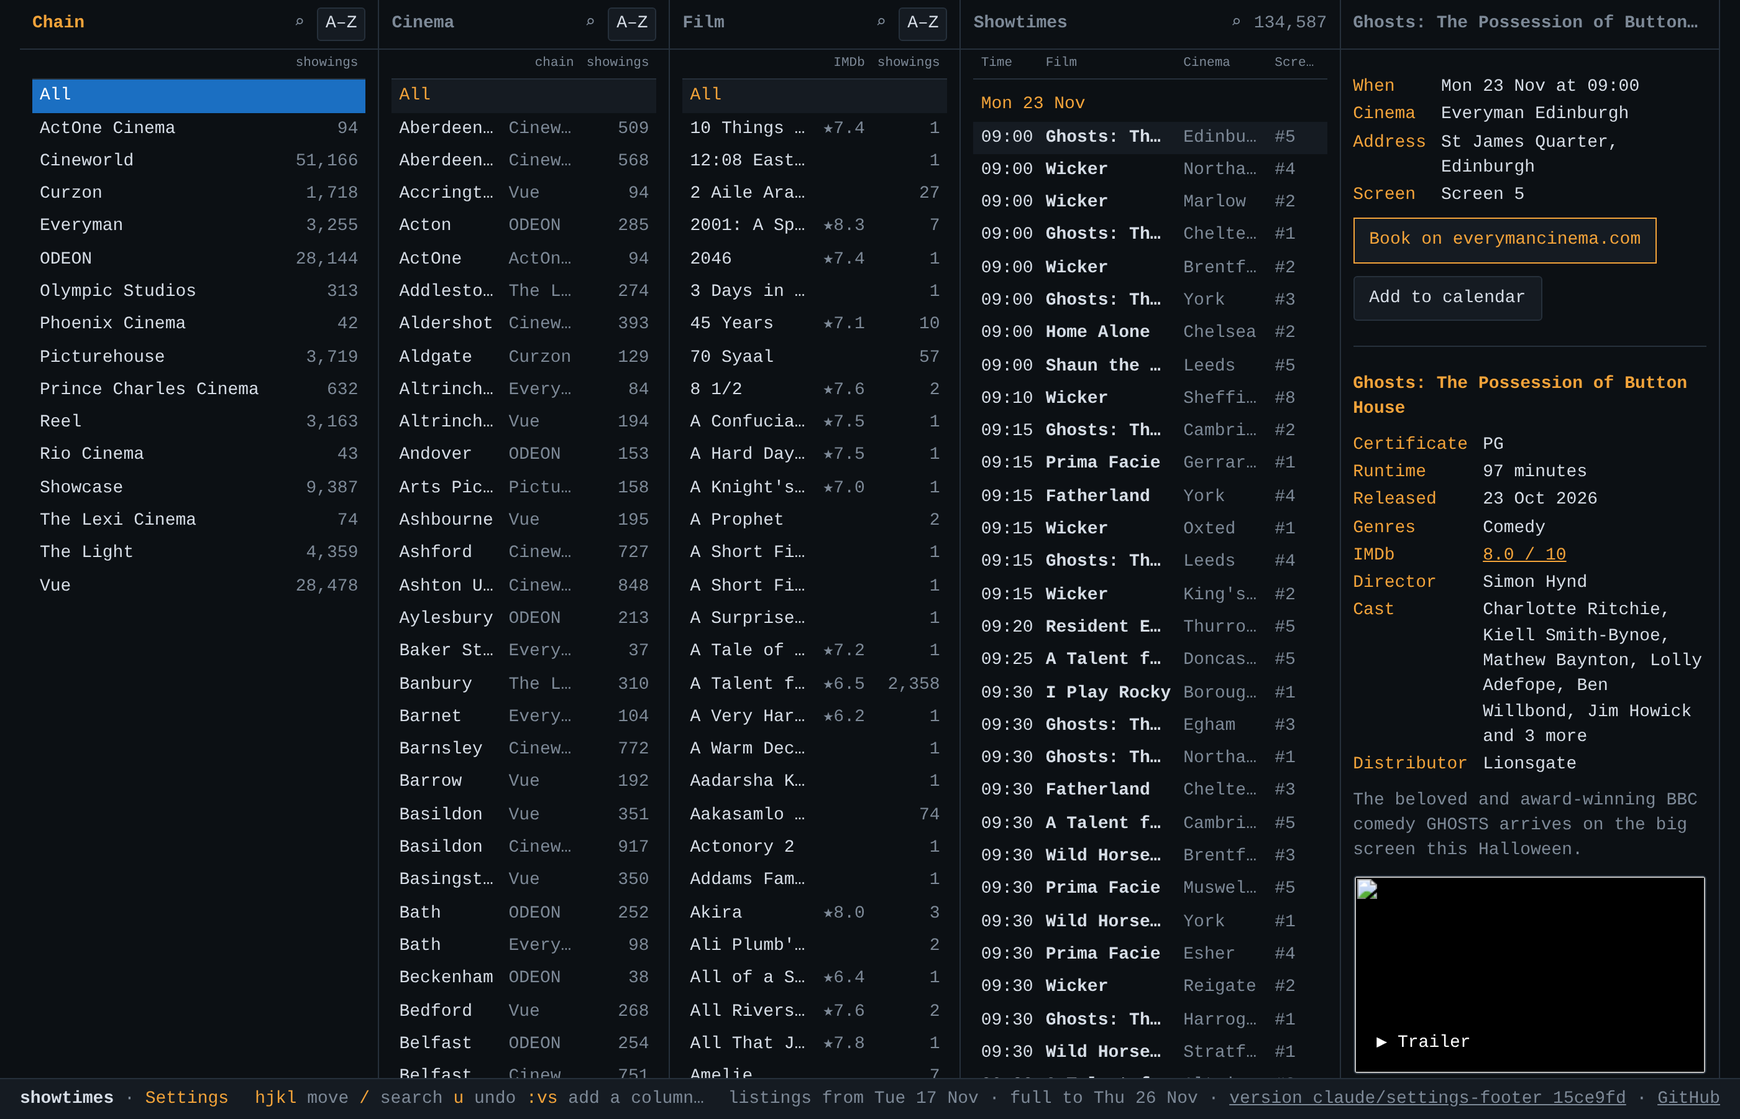
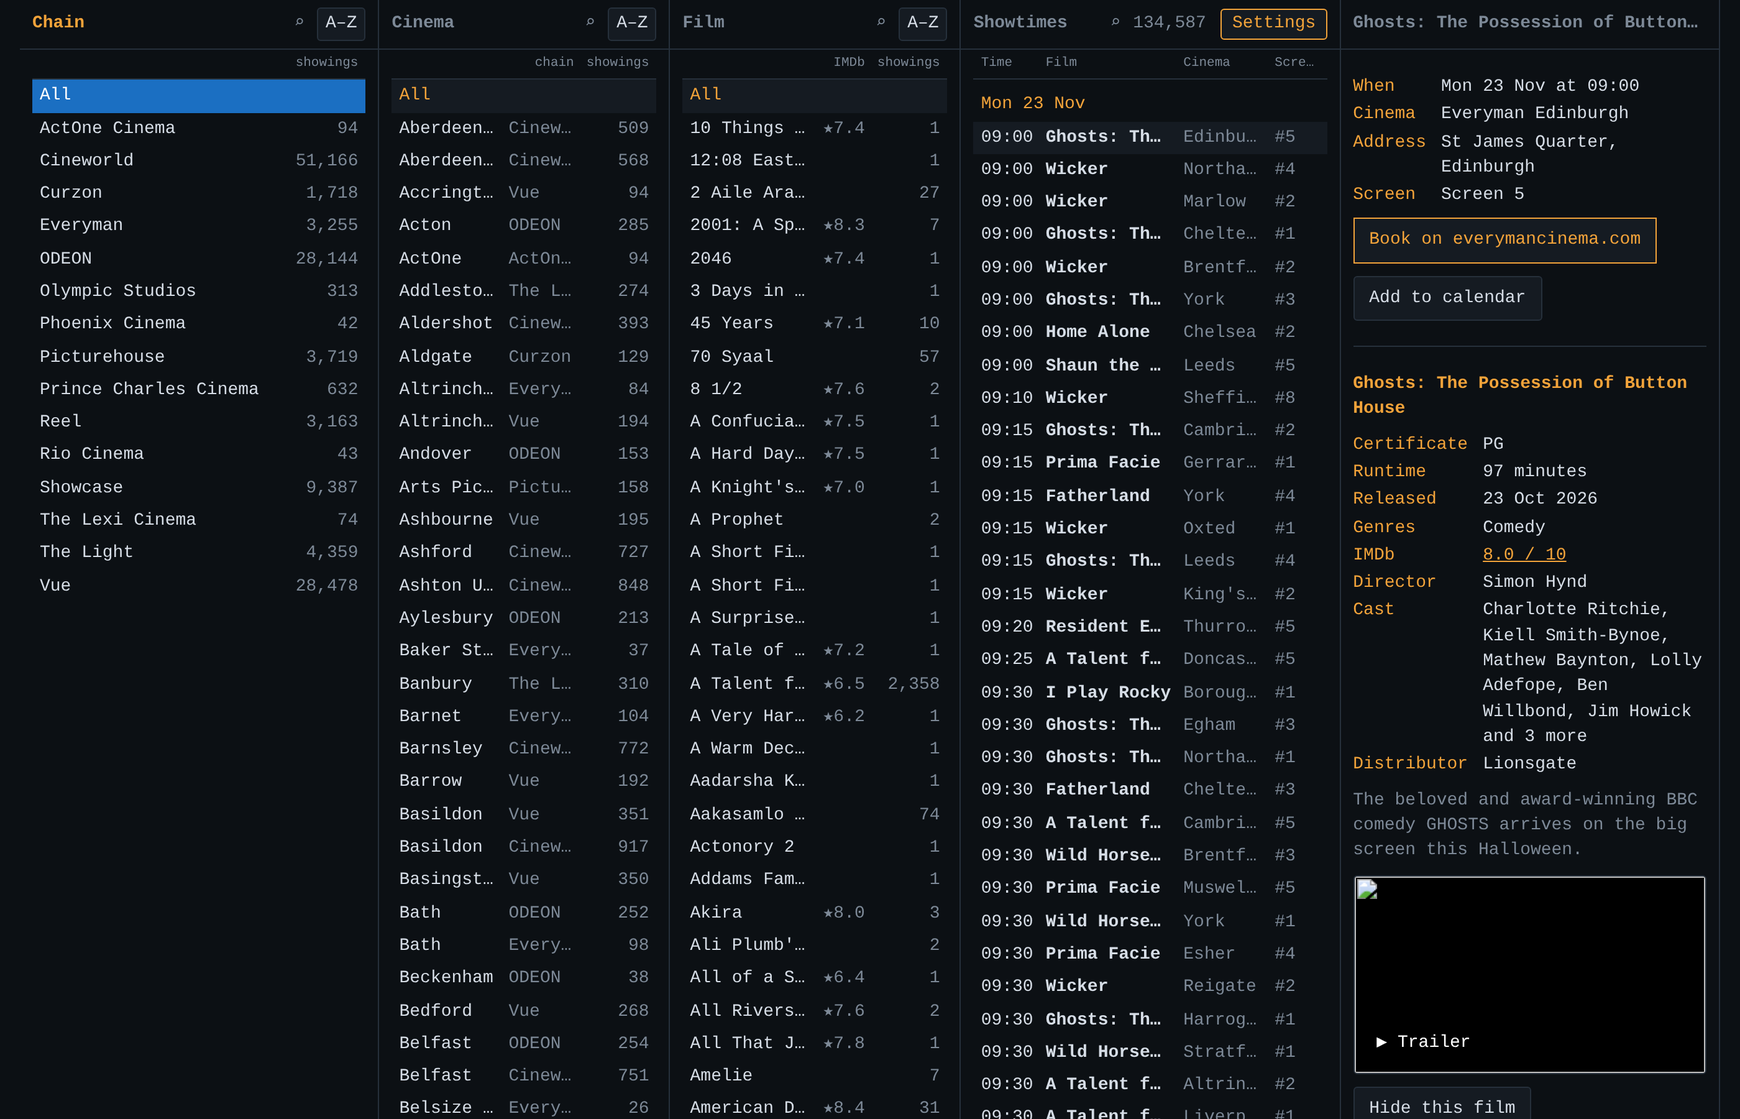
site: no footer; Esc opens the settings, a window floating over the columns (#75)
The footer goes. The settings open with Esc (when there is no count or
half-typed command to cancel), or with a button at the right of the
showtimes' heading, on the line of the column titles; a phone keeps its button
at the end of the top row. They are now a window floating over the columns,
not a panel down the right side (still the whole screen on a phone), and end
with what the footer said: how fresh the listings are, the version and the
GitHub link. Esc's own default is cancelled when it opens the window, which
would otherwise close it at once.

Claude-Session: https://claude.ai/code/session_017zLgzWL49onHhxGG3vgzQt

diff --git a/site/e2e/flow.spec.ts b/site/e2e/flow.spec.ts
@@ -56,7 +56,7 @@ test('keys choose in each column, each counts what the others leave, and the add
   await page.keyboard.press('g');
   await page.keyboard.press('g'); // the first line: All
   await expect(total(page)).toHaveText('3');
-  await page.locator('footer .name a').click(); // the default view, which needs nothing after the address
+  await ex(page, 'e!'); // start over: the default view, which needs nothing after the address
   await expect(titles(page)).toHaveText(['Chain', 'Cinema', 'Film', 'Showtimes', /./]);
   await expect(page).toHaveURL(/\/$/);
 });
@@ -124,14 +124,26 @@ test('Space marks lines apart, as in ranger or lf: j and k then move without cho
   await expect(selected).toHaveText([/^Aberdeen/]);
 });
 
-test('there is no header: the footer names the site and opens the settings, on one line', async ({ page }) => {
+test('no header and no footer: Esc or the button in the showtimes\' heading opens the settings, floating over the columns', async ({ page }) => {
   await visit(page, '/');
-  await expect(page.locator('header')).toHaveCount(0);
-  const footer = page.locator('footer');
-  // One line of text and its padding, as before the settings moved in (33px).
-  expect((await footer.boundingBox())!.height).toBeLessThan(40);
-  await footer.locator('.open-panel').click();
-  await expect(page.getByRole('dialog', { name: 'Settings' })).toBeVisible();
+  await expect(page.locator('header, footer')).toHaveCount(0);
+  const settings = page.getByRole('dialog', { name: 'Settings' });
+  await page.keyboard.press('Escape'); // nothing to cancel: the settings
+  await expect(settings).toBeVisible();
+  // A window over the columns, not a panel down the side: narrower than the page and clear of its edges.
+  const [window_, page_] = [(await settings.boundingBox())!, page.viewportSize()!];
+  expect(window_.x).toBeGreaterThan(10);
+  expect(window_.x + window_.width).toBeLessThan(page_.width - 10);
+  expect(window_.y).toBeGreaterThan(10);
+  await expect(settings.locator('.status')).toHaveText(/^Listings from .* · version /);
+  await page.keyboard.press('Escape');
+  await expect(settings).toBeHidden();
+  // A count or a half-typed command is what Esc cancels first.
+  await page.keyboard.press('3');
+  await page.keyboard.press('Escape');
+  await expect(settings).toBeHidden();
+  await column(page, 'Showtimes').locator('.open-panel').click();
+  await expect(settings).toBeVisible();
 });
 
 test('vim keys move between and through the columns', async ({ page }) => {
@@ -352,13 +364,13 @@ test('a long list of showtimes draws more as the reader scrolls and as the highl
   await expect(showtimes(page).nth(205)).toHaveClass(/selected/);
 });
 
-test('the window holds the columns clear of the footer, and a highlighted row clear of its heading', async ({ page }) => {
+test('the window holds the columns to its height, and a highlighted row clear of its heading', async ({ page }) => {
   await page.setViewportSize({ width: 1024, height: 700 });
   await visit(page, '/#col=4');
   for (const [key, times] of [['ArrowDown', 40], ['ArrowUp', 30]] as const) for (let press = 0; press < times; press += 1) await page.keyboard.press(key);
   const box = async (selector: string) => (await page.locator(selector).first().boundingBox())!;
-  const [strip, footer, heads, row] = [await box('.columns'), await box('footer'), await box('.showtimes li.heads'), await box('.showtimes .selected')];
-  expect(strip.y + strip.height).toBeLessThanOrEqual(footer.y + 1);
+  const [strip, heads, row] = [await box('.columns'), await box('.showtimes li.heads'), await box('.showtimes .selected')];
+  expect(strip.y + strip.height).toBeLessThanOrEqual(700 + 1);
   expect(row.y).toBeGreaterThanOrEqual(heads.y + heads.height - 1);
 });
 
@@ -374,7 +386,7 @@ test('the showtimes are headed, a heading orders them, and the settings choose w
   await expect(heads).toHaveText(/Day.*Seats ▲/); // out of date order, each row says its day
   await heads.getByRole('button', { name: /Order by seats/ }).click();
   await expect(page).toHaveURL(/sort=seats&desc=1/);
-  await page.locator('footer .open-panel').click();
+  await page.locator('.column.showtimes .open-panel').click();
   const panel = page.locator('dialog.panel');
   await panel.locator('[data-key="field-ends"]').check();
   await panel.locator('[data-key="field-picture"]').uncheck();
@@ -386,7 +398,7 @@ test('the showtimes are headed, a heading orders them, and the settings choose w
 
 test('London only, at the top of the settings, is ?cinemas=london and loads only its listings', async ({ page }) => {
   await visit(page, '/');
-  await page.locator('footer .open-panel').click();
+  await page.locator('.column.showtimes .open-panel').click();
   const london = page.locator('dialog.panel').getByLabel(/London only/);
   await london.check();
   await expect(page).toHaveURL(/\?cinemas=london$/);
@@ -401,9 +413,9 @@ test('London only, at the top of the settings, is ?cinemas=london and loads only
   await expect(page).not.toHaveURL(/cinemas=/);
   await expect(choices(page, 'Cinema')).toHaveText([/^All/, /^Aberdeen/, /^Holloway/, /^West End/]);
   expect(fetched).toEqual([expect.stringMatching(/^london/), expect.stringMatching(/^listings(-[0-9a-f]+)?\.json\.gz$/)]); // every cinema, fetched once needed
-  await page.locator('footer .open-panel').click();
+  await page.locator('.column.showtimes .open-panel').click();
   await expect(london).not.toBeChecked();
-  await expect(page.locator('footer .open-panel')).toHaveText('Settings');
+  await expect(page.locator('.column.showtimes .open-panel')).toHaveText('Settings');
 });
 
 test('event cinema and single cinemas are chosen in the settings', async ({ page }) => {
@@ -478,13 +490,16 @@ test('more than one chain: films shared, a Chain column, each cinema marked and 
 });
 
 
-test('the footer and :help show which version is running, linked to its commit, and the GitHub repository', async ({ page }) => {
+test('the settings and :help show which version is running, linked to its commit, and the GitHub repository', async ({ page }) => {
   await visit(page, '/');
-  const about = page.locator('footer .about');
+  await page.keyboard.press('Escape');
+  const about = page.locator('dialog.panel:not(.keylist) .about');
   // A commit when the build knows it (Publish, or a git checkout); CI's site check builds without one.
   await expect(about.locator('a.version')).toHaveText(/^version ((\S+ )?[0-9a-f]{7}|local build)$/);
   await expect(about.locator('a.version')).toHaveAttribute('href', /^https:\/\/github\.com\/RoshBeed\/showtimes(\/commit\/[0-9a-f]{40})?$/);
   await expect(about.locator('a.github')).toHaveAttribute('href', 'https://github.com/RoshBeed/showtimes');
+  const version = await about.locator('a.version').innerText();
+  await page.keyboard.press('Escape');
   await ex(page, 'help');
-  await expect(page.locator('dialog.keylist .about a.version')).toHaveText(await about.locator('a.version').innerText());
+  await expect(page.locator('dialog.keylist .about a.version')).toHaveText(version);
 });

diff --git a/site/src/finder.ts b/site/src/finder.ts
@@ -13,22 +13,11 @@ import { note, noteNow, startHistory } from './history';
 import * as q from './queries';
 import { address, app, cursors, db, hidden, narrow, page, scope, setDb, setDrawn, setPage, setView, ticks, toggle, view } from './state';
 import { formats } from './tags';
-import { about } from './version';
 
 /** Whether `db` holds every cinema's showings, or only Greater London's. */
 let whole = false;
 let everything: Promise<void> | undefined;
 
-/** The title goes back to the default view, keeping the cinemas and films chosen in the settings. */
-function home(): HTMLElement {
-  const element = h('a', { href: location.pathname + location.search }, 'showtimes');
-  element.onclick = (event) => {
-    event.preventDefault();
-    if (location.hash) history.pushState(null, '', location.pathname + location.search);
-    render();
-  };
-  return element;
-}
 /** The link to book a showing on its chain's site, named after the site: `Book on odeon.co.uk`. */
 function bookingLink(show: { cinemaId: string; id: string }): Node[] {
   const url = q.booking(db, show);
@@ -110,7 +99,7 @@ export function render() {
   const detail = h('div', { class: 'column details' });
   const panes = [
     ...columns.map((facet, index) => h('div', { class: `column ${facet}` }, bar(KINDS[facet].title, ...finding(index), sorters[index]), lists[index])),
-    h('div', { class: 'column showtimes' }, bar('Showtimes', ...finding(results), total), shows),
+    h('div', { class: 'column showtimes' }, bar('Showtimes', ...finding(results), total, settings()), shows),
     detail,
   ];
   // Clicking a column's heading or its empty space goes to it and shows its choices, changing nothing.
@@ -129,12 +118,11 @@ export function render() {
 
   document.title = 'showtimes';
   app.className = 'finder-page';
-  // No header: the footer names the site and opens the settings; on a phone, where the footer is
-  // hidden, the row of steps at the top ends with the settings.
+  // No header and no footer: the settings open with Esc, or with the button at the right of the
+  // showtimes' heading; on a phone, with the button that ends the row of steps at the top.
   app.replaceChildren(
     h('div', { class: 'topbar' }, steps, settings()),
     h('div', { class: 'columns finder' }, ...panes),
-    footer(['hjkl move', '/ search', 'u undo', ':vs add a column', ':help all keys']),
   );
 
   const state = {
@@ -424,7 +412,7 @@ function quickStart(): Node {
     h('p', {}, `What's on at ${db.chains.size ? [...db.chains.values()].map((chain) => chain.name).join(', ') : 'the cinema'}, on which screen, and how big that screen is.`),
     facts([
       ['Choose', 'a day, a film, a cinema… in any column; each counts what the others leave. Shift-click picks a run of lines, Ctrl- or Cmd-click one more. All at the top takes them back.'],
-      ['Columns', 'Settings adds, removes and orders them; so do :vs day, :q, << and >>.'],
+      ['Columns', 'Settings (Esc) adds, removes and orders them; so do :vs day, :q, << and >>.'],
       ['Keys', 'it is driven as vim is: hjkl, / and n, :set, :sort, u and the rest. :help lists them all.'],
       ['Bookmark', 'the columns, your choices and your cinemas are all in the page address. Bookmark it and it opens the same way anywhere.'],
     ]));
@@ -438,23 +426,7 @@ export function hideFilm(id: string) {
 
 /** The button that opens the settings drawer, as `:set` does. */
 function settings(): HTMLButtonElement {
-  return button('Settings', openPanel, { class: 'open-panel', 'aria-keyshortcuts': 'o' });
-}
-
-/** The line at the foot of the page: the site's name, the settings, the keys, and how fresh the listings are. */
-function footer(hints: string[]): HTMLElement {
-  const stamp = db.ingested;
-  const old = stamp !== null && Date.now() - Date.parse(stamp) > 8 * 86400000;
-  return h('footer', {},
-    h('span', { class: 'keys' }, h('span', { class: 'name' }, home()), ' · ', settings(), '   ', ...hints.flatMap((hint) => {
-      const [keys, ...words] = hint.split(' ');
-      return [h('kbd', {}, keys), ` ${words.join(' ')}   `];
-    })),
-    h('span', { class: 'status' },
-      `listings from ${stamp ? day(stamp) : 'no ingest yet'}`,
-      ...(db.fullUntil ? [` · full to ${day(db.fullUntil)}`] : []),
-      ...(old ? [h('span', { class: 'stale' }, ' · more than a week old')] : []),
-      ' · ', about()));
+  return button('Settings', openPanel, { class: 'open-panel', title: 'Settings (Esc)', 'aria-keyshortcuts': 'Escape' });
 }
 
 function load(all: boolean): Promise<void> {

diff --git a/site/src/style.css b/site/src/style.css
@@ -23,17 +23,8 @@ button:disabled { color: var(--dim); cursor: default; }
 .check { cursor: pointer; }
 .check input { accent-color: var(--accent); margin: 0 2px 0 0; vertical-align: -2px; }
 
-/* The window: the header, the columns, the footer, whatever height each needs. */
+/* The window: the columns, the whole height. */
 #app { display: flex; flex-direction: column; height: 100vh; height: 100dvh; padding: 0 16px; }
-footer { margin: 0 -16px; background: var(--panel); border-top: 1px solid var(--line); padding: 6px 16px; color: var(--dim); display: flex; gap: 16px; justify-content: space-between; white-space: nowrap; }
-/* Always one line: the key hints give way (cut short) before the status does. */
-footer .keys { min-width: 0; overflow: hidden; text-overflow: ellipsis; }
-footer .status { flex: none; }
-footer kbd { color: var(--accent); font: inherit; }
-/* The site's name and the settings sit in the footer's one line as text: the footer keeps its height. */
-footer .name a { color: var(--text); font-weight: 600; text-decoration: none; }
-footer .open-panel { border: 0; padding: 0; margin: 0 1.5ch 0 0; background: none; font: inherit; line-height: inherit; color: var(--accent); cursor: pointer; }
-footer .open-panel:hover { text-decoration: underline; }
 /* Where lines are marked, the line in hand: the cursor that j and k move. */
 .facet li.cursor { outline: 1px dashed var(--accent); outline-offset: -1px; }
 /* Only a phone shows this row: the steps, then the settings. */
@@ -118,7 +109,12 @@ li.heads button:hover, li.heads button.on { color: var(--accent); }
 .trailer span { position: absolute; left: 10px; bottom: 10px; padding: 4px 8px; border-radius: 3px; background: rgba(0, 0, 0, 0.75); color: #fff; }
 
 /* Settings: a drawer at the right, so the finder shows each change behind it. */
-.panel { margin: 0 0 0 auto; width: min(460px, 100vw); max-width: none; height: 100dvh; max-height: 100dvh; background: var(--bg); color: var(--text); border: 0; border-left: 1px solid var(--line); padding: 0 20px 24px; }
+.panel { margin: 7vh auto auto; width: min(760px, 94vw); max-width: none; max-height: 86dvh; background: var(--bg); color: var(--text); border: 1px solid var(--line); border-radius: 8px; box-shadow: 0 18px 60px rgba(0, 0, 0, 0.55); padding: 0 22px 18px; }
+/* The showtimes' heading ends with the settings. */
+.bar .open-panel { margin-left: 6px; color: var(--accent); border-color: var(--accent); padding: 1px 8px; }
+.panel .status { margin: 14px 0 0; }
+.panel .status a { color: inherit; }
+.panel .status a:hover { color: var(--accent); }
 .panel::backdrop { background: rgba(0, 0, 0, 0.35); }
 .panel-head { position: sticky; top: 0; z-index: 1; display: flex; justify-content: space-between; align-items: center; background: var(--bg); padding: 14px 0 10px; border-bottom: 1px solid var(--line); }
 .panel-head button { border-color: var(--accent); color: var(--accent); padding: 5px 14px; }
@@ -149,8 +145,11 @@ li.heads button:hover, li.heads button.on { color: var(--accent); }
 @media (max-width: 640px) {
   :root { font-size: 15px; }
   #app { padding: 0 10px; }
-  /* One line at the top (the steps, then the settings), and none at the foot: the screen is for the listings. */
-  footer { display: none; }
+  /* One line at the top: the steps, then the settings. */
+  /* The settings and help fill a phone's screen. */
+  .panel { margin: 0; width: 100vw; height: 100dvh; max-height: 100dvh; border: 0; border-radius: 0; box-shadow: none; }
+  /* The showtimes' own Settings button gives way to the one in the row at the top. */
+  .bar .open-panel { display: none; }
   .topbar { display: flex; gap: 6px; align-items: center; border-bottom: 1px solid var(--line); }
   .steps { display: flex; flex: 1; min-width: 0; gap: 6px; overflow-x: auto; padding: 8px 0; }
   .topbar .open-panel { flex: none; padding: 6px 10px; color: var(--accent); border-color: var(--accent); }

diff --git a/site/src/drawer.ts b/site/src/drawer.ts
@@ -3,10 +3,12 @@ import { type Buffer, command, held, openCommand, say, seat, show } from './cmdl
 import { FIELD_ABOUT, KINDS, names, PARTS } from './columns';
 import { button, checkbox, count, h } from './dom';
 import { hideFilm, rebuild } from './finder';
+import { day } from './format';
 import { noteNow, undoOrRedo } from './history';
 import { patternOf } from './keys';
 import * as q from './queries';
 import { address, db, extras, hidden, londonOnly, ticks, toggle, view } from './state';
+import { about } from './version';
 
 // ---- Settings: a drawer at the side, so the finder shows each change as it is made ----
 
@@ -179,6 +181,8 @@ export function fillPanel() {
         }), 'copy'),
         keyed(button('Start over', () => changed(startOver), { title: 'Every cinema, the default columns, nothing hidden' }), 'reset'),
         copied)),
+
+    listingsStatus(),
   );
   panel.scrollTop = scrolled;
   const again = held ? panel.querySelector<HTMLElement>(`[data-key="${CSS.escape(held)}"]`) : null;
@@ -330,3 +334,14 @@ panel.addEventListener('focusin', (event) => {
   const target = event.target as HTMLElement;
   if (target !== command) cursorline(lineOf(target));
 });
+
+/** How fresh the listings are, which version of the site this is, and where it lives. */
+function listingsStatus(): HTMLElement {
+  const stamp = db.ingested;
+  const old = stamp !== null && Date.now() - Date.parse(stamp) > 8 * 86400000;
+  return h('p', { class: 'status dim' },
+    `Listings from ${stamp ? day(stamp) : 'no ingest yet'}`,
+    ...(db.fullUntil ? [` · full to ${day(db.fullUntil)}`] : []),
+    ...(old ? [h('span', { class: 'stale' }, ' · more than a week old')] : []),
+    ' · ', about());
+}

diff --git a/site/src/cmdline.ts b/site/src/cmdline.ts
@@ -39,7 +39,7 @@ const NORMAL: [string, string][] = [
   ['gx', 'Open the showing on its cinema\u2019s site to book it'],
   ['K', 'Play the film’s trailer'],
   ['Ctrl-g', 'Where you are'],
-  ['Esc', 'Cancel a count or a half-typed command'],
+  ['Esc', 'Cancel a count or a half-typed command; with nothing to cancel, open the settings'],
 ];
 /** Ex commands, for :help. */
 const EX: [string, string][] = [
@@ -49,7 +49,7 @@ const EX: [string, string][] = [
   [':sort  :sort n  :sort rating', 'Order a column A–Z, by showings, or (films) by rating'],
   [':sort {by}  :sort! {by}', 'Order the showtimes by date, time, film, cinema, screen or seats; ! reverses'],
   [':filter {text}', 'Keep only the lines with that text; :filter alone shows them all again'],
-  [':set', 'Settings'],
+  [':set  Esc', 'Settings'],
   [':set london  nolondon  london!', 'London only on, off, or switched'],
   [':set events  noevents', 'Event cinema shown or left out'],
   [':set fields=…  fields+=ends  fields-=picture  fields&', 'What each showtime shows (ends, picture, language, access, cert, cinema, screen, seats); & is the default'],
@@ -69,7 +69,7 @@ const DRAWER: [string, string][] = [
   ['i', 'Type in the cinema search; Esc leaves it'],
   ['dd  <<  >>', 'Remove a column, or move it left or right'],
   ['u  Ctrl-r', 'Undo or redo'],
-  ['q  Esc  :q', 'Close the drawer'],
+  ['q  Esc  :q', 'Close the settings'],
 ];
 export const help = h('dialog', { class: 'panel keylist', 'aria-label': 'Help' }) as HTMLDialogElement;
 help.addEventListener('click', (event) => { if (event.target === help) help.close(); });

diff --git a/site/src/keys.ts b/site/src/keys.ts
@@ -1,7 +1,7 @@
 import { onlyPick, PAGE, pick, picked } from './choices';
 import { held, help, openCommand, say, show } from './cmdline';
 import { KINDS } from './columns';
-import { panel, where } from './drawer';
+import { openPanel, panel, where } from './drawer';
 import { hideFilm, lastColumn, rebuild } from './finder';
 import { noteNow, restore, undoOrRedo } from './history';
 import * as q from './queries';
@@ -132,7 +132,12 @@ document.addEventListener('keydown', (event) => {
     endVisual();
     if (keep) return event.preventDefault();
   }
-  if (key === 'Escape') return; // cancels the count or the half-typed command
+  if (key === 'Escape') {
+    // Esc cancels a count or a half-typed command; with nothing to cancel, it opens the settings.
+    // Its own default would close the window it has just opened.
+    if (!counted && !pair) { event.preventDefault(); openPanel(); }
+    return;
+  }
 
   const { at, facet, pane, length, here } = inHand();
   const shown = at.rows[view.row];

diff --git a/CLAUDE.md b/CLAUDE.md
@@ -92,7 +92,9 @@
   clicked, goes to it and changes nothing),
   so a bookmark is a saved view; the default view has no hash at all. `fields=` picks what each
   showtime row shows (`FIELDS` in `choices.ts`), and rows too wide for their column leave out the
-  least needed first. Nothing is stored in the browser. The default view is Cinema then
+  least needed first. There is no header or footer: Esc (with nothing half-typed) or the button
+  at the right of the showtimes' heading opens the settings, a window floating over the columns,
+  which also says how fresh the listings are and which version is running. Nothing is stored in the browser. The default view is Cinema then
   Film, over every cinema. On a phone one column shows at a time.
 - The keys are vim's and nothing else: normal mode, ex commands (`:set`, `:sort`, `:vs`, `:q`,
   `:filter`) and `/` `?` searches on the command line. `NORMAL`, `EX` and `DRAWER` in `cmdline.ts`

diff --git a/README.md b/README.md
@@ -14,7 +14,7 @@ Phoenix and ActOne, in one place. Listings are refreshed every week.
 
 ## Finding a film
 
-- **Choose your cinemas** in **Settings** (in the footer; on a phone, at the end of the top row): every cinema, London only, or
+- **Choose your cinemas** in **Settings** (press Esc, or the button at the right of the showtimes' heading; on a phone, the end of the top row): every cinema, London only, or
   the ones you go to.
 - **Narrow it down** by picking in the columns: cinema, film, day, and any others you
   add in Settings, such as screen size, picture format, language or accessibility.
